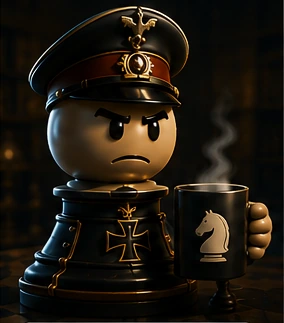
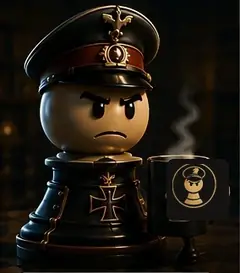
feat: enrich Matthias scenes and harden test workflow

diff --git a/frontend/src/matthiasTime.js b/frontend/src/matthiasTime.js
@@ -5,46 +5,42 @@ function normalizedHour(hour) {
   return wrapped < 0 ? wrapped + 24 : wrapped;
 }
 
-const SCENES = Object.freeze({
-  morning: Object.freeze({
-    key: 'morning-coffee',
-    label: 'Café de campaña',
-    greeting: 'Guten Morgen',
-    loginText: 'Guten Morgen. Café fuerte, mente clara. A ver si hoy no regalas nada.',
-  }),
-  lunch: Object.freeze({
-    key: 'lunch-bocata',
-    label: 'Bocata táctico',
-    greeting: 'Guten Tag',
-    loginText: 'Guten Tag. Me pillas con el bocata. Tú juega; ya masticaré entre blunders.',
-  }),
-  afternoon: Object.freeze({
-    key: 'afternoon-ops',
-    label: 'En plena operación',
-    greeting: 'Guten Tag',
-    loginText: 'Guten Tag. En plena operación. Mantén la presión y procura no financiar al rival.',
-  }),
-  night: Object.freeze({
-    key: 'night-coffee',
-    label: 'Turno nocturno',
-    greeting: 'Guten Abend',
-    loginText: 'Guten Abend. Turno nocturno. Menos excusas, más cálculo.',
-  }),
-  sleep: Object.freeze({
-    key: 'late-sleep',
-    label: 'Sobando',
-    greeting: 'Guten… was?',
-    loginText: '¿Qué haces jugando a estas horas? Has despertado al alto mando. Ya que estamos, mueve bien.',
-  }),
-});
+function scene(key, label, greeting, loginText) {
+  return Object.freeze({ key, label, greeting, loginText });
+}
+
+// Una jornada de Matthias se cuenta por pequeñas escenas, no por bloques de
+// tres horas con el mismo bocata. La hora local del navegador decide la escena
+// y no altera ninguna métrica ni regla del juego.
+const HOURLY_SCENES = Object.freeze([
+  scene('chess-weekly', 'Lectura de medianoche', 'Guten Abend', 'Guten Abend. Medianoche. Última lectura del día. Si vas a hacer una barbaridad, que al menos sea instructiva.'), // 00
+  scene('late-sleep', 'Sobando', 'Guten… was?', '¿Qué haces jugando a estas horas? Has despertado al alto mando. Ya que estamos, mueve bien.'),
+  scene('late-sleep', 'Sobando', 'Guten… was?', 'Las dos de la mañana. Yo estaba durmiendo y tú aparentemente estabas buscando problemas.'),
+  scene('late-sleep', 'Sobando', 'Guten… was?', 'Las tres. No pienso preguntar por qué. Sólo intenta que la partida justifique el crimen horario.'),
+  scene('late-sleep', 'Sobando', 'Guten… was?', 'Las cuatro. Esto ya no es turno nocturno; es una investigación.'),
+  scene('late-sleep', 'Sobando', 'Guten… was?', 'Cinco de la mañana. Técnicamente sigo sobando. Moralmente ya te estoy juzgando.'),
+  scene('morning-coffee', 'Primer café', 'Guten Morgen', 'Guten Morgen. Café fuerte, mente clara. A ver si hoy no regalas nada.'),
+  scene('breakfast-news', 'Desayuno y prensa', 'Guten Morgen', 'Guten Morgen. Croissant, café y Chess Weekly. Procura no convertirte en la noticia táctica del día.'),
+  scene('strategy-book', 'Estudio matinal', 'Guten Morgen', 'Guten Morgen. Desayuno terminado. Estoy repasando estrategia; tú puedes empezar por mirar antes de mover.'),
+  scene('chess-inception', 'Ajedrez dentro del ajedrez', 'Guten Morgen', 'Guten Morgen. Sí, estoy jugando al ajedrez mientras espero que juegues al ajedrez. No lo compliques.'),
+  scene('dossier', 'Revisión de expedientes', 'Guten Morgen', 'Guten Morgen. Estoy con los expedientes. El tuyo tiene demasiados post-it.'),
+  scene('chess-weekly', 'Chess Weekly', 'Guten Morgen', 'Guten Morgen. Prensa ajedrecística. Estrategia, estructura y gente que mira antes de mover.'),
+  scene('lunch-bocata', 'Comida táctica', 'Guten Tag', 'Guten Tag. Hora de comer. Un bocata y seguimos; una hora, no una legislatura.'),
+  scene('dossier', 'Sobremesa administrativa', 'Guten Tag', 'Guten Tag. Comida terminada. Vuelvo al expediente, que tus blunders no se archivan solos.'),
+  scene('strategy-book', 'Manual de campaña', 'Guten Tag', 'Guten Tag. Estoy estudiando. Es una costumbre útil; algún día podrías probarla.'),
+  scene('chess-inception', 'Partida privada', 'Guten Tag', 'Guten Tag. Estoy en mitad de otra partida. Sí, también me juzgo a mí mismo.'),
+  scene('afternoon-ops', 'En plena operación', 'Guten Tag', 'Guten Tag. En plena operación. Mantén la presión y procura no financiar al rival.'),
+  scene('dossier', 'Auditoría táctica', 'Guten Tag', 'Guten Tag. Hora de revisar expedientes. Tus blunders no se archivan solos.'),
+  scene('chess-weekly', 'Lectura de tarde', 'Guten Tag', 'Guten Tag. Chess Weekly. Nada de picar entre horas: café, lectura y disciplina.'),
+  scene('beer-break', 'Cervezota reglamentaria', 'Guten Abend', 'Guten Abend. He declarado una pausa con cerveza. No interpretes eso como permiso para jugar borracho.'),
+  scene('lunch-bocata', 'Cena de campaña', 'Guten Abend', 'Guten Abend. Cena rápida y vuelta al tablero. Hasta yo respeto unos horarios razonables.'),
+  scene('night-coffee', 'Turno nocturno', 'Guten Abend', 'Guten Abend. Cena terminada. Café, guardia nocturna y menos excusas.'),
+  scene('chess-inception', 'Partida nocturna', 'Guten Abend', 'Guten Abend. Estoy jugando una partida. Inception ajedrecístico, pero con menos presupuesto.'),
+  scene('strategy-book', 'Último estudio', 'Guten Abend', 'Guten Abend. Últimas páginas del día. Después de esto, a dormir como una persona razonable.'),
+]);
 
 export function matthiasTimeScene(hour = new Date().getHours()) {
-  const h = normalizedHour(hour);
-  if (h >= 1 && h < 6) return SCENES.sleep;
-  if (h >= 6 && h < 11) return SCENES.morning;
-  if (h >= 11 && h < 15) return SCENES.lunch;
-  if (h >= 15 && h < 20) return SCENES.afternoon;
-  return SCENES.night;
+  return HOURLY_SCENES[normalizedHour(hour)] || HOURLY_SCENES[12];
 }
 
 export { normalizedHour as normalizeMatthiasHour };

diff --git a/frontend/src/matthiasTime.test.js b/frontend/src/matthiasTime.test.js
@@ -1,26 +1,35 @@
 import { describe, expect, it } from 'vitest';
-import { matthiasTimeScene } from './matthiasTime.js';
+import { matthiasTimeScene, normalizeMatthiasHour } from './matthiasTime.js';
 
-describe('Matthias · escenas por hora local', () => {
-  it.each([
-    [0, 'night-coffee'],
-    [1, 'late-sleep'],
-    [5, 'late-sleep'],
-    [6, 'morning-coffee'],
-    [10, 'morning-coffee'],
-    [11, 'lunch-bocata'],
-    [14, 'lunch-bocata'],
-    [15, 'afternoon-ops'],
-    [19, 'afternoon-ops'],
-    [20, 'night-coffee'],
-    [23, 'night-coffee'],
-  ])('a las %i usa %s', (hour, key) => {
-    expect(matthiasTimeScene(hour).key).toBe(key);
+describe('Matthias · jornada horaria', () => {
+  it('rota actividades hora a hora y reserva comida para desayuno, comida y cena', () => {
+    const keys = Array.from({ length: 24 }, (_, hour) => matthiasTimeScene(hour).key);
+    expect(keys.slice(1, 6)).toEqual(Array(5).fill('late-sleep'));
+    expect(keys.filter((key) => key === 'lunch-bocata')).toHaveLength(2);
+    expect(keys[7]).toBe('breakfast-news');
+    expect(keys[12]).toBe('lunch-bocata');
+    expect(keys[20]).toBe('lunch-bocata');
+    expect(new Set(keys).size).toBeGreaterThanOrEqual(10);
+    expect(keys[9]).toBe('chess-inception');
+    expect(keys[19]).toBe('beer-break');
+    expect(keys[23]).toBe('strategy-book');
+
+    const solidFoodHours = keys
+      .map((key, hour) => ({ key, hour }))
+      .filter(({ key }) => ['breakfast-news', 'lunch-bocata'].includes(key))
+      .map(({ hour }) => hour);
+    expect(solidFoodHours).toEqual([7, 12, 20]);
+
+    const workingHours = keys.slice(8, 19);
+    expect(workingHours).toContain('dossier');
+    expect(workingHours).toContain('strategy-book');
+    expect(workingHours).toContain('chess-inception');
+    expect(workingHours).toContain('afternoon-ops');
   });
 
-  it('normaliza horas fuera de rango sin inventar otra identidad', () => {
-    expect(matthiasTimeScene(24).key).toBe('night-coffee');
-    expect(matthiasTimeScene(-1).key).toBe('night-coffee');
+  it('normaliza horas fuera de rango sin romper la escena', () => {
+    expect(normalizeMatthiasHour(24)).toBe(0);
+    expect(normalizeMatthiasHour(-1)).toBe(23);
     expect(matthiasTimeScene('basura').key).toBe('lunch-bocata');
   });
 });

diff --git a/frontend/src/matthiasVisuals.js b/frontend/src/matthiasVisuals.js
@@ -4,6 +4,12 @@ import lunchBocata from './assets/matthias-scenes/lunch-bocata.webp';
 import afternoonOps from './assets/matthias-scenes/afternoon-ops.webp';
 import nightCoffee from './assets/matthias-scenes/night-coffee.webp';
 import lateSleep from './assets/matthias-scenes/late-sleep.webp';
+import breakfastNews from './assets/matthias-scenes/breakfast-news.webp';
+import chessInception from './assets/matthias-scenes/chess-inception.webp';
+import dossier from './assets/matthias-scenes/dossier.webp';
+import beerBreak from './assets/matthias-scenes/beer-break.webp';
+import strategyBook from './assets/matthias-scenes/strategy-book.webp';
+import chessWeekly from './assets/matthias-scenes/chess-weekly.webp';
 import moodAnnoyed from './assets/matthias-scenes/mood-annoyed.webp';
 import moodImpressed from './assets/matthias-scenes/mood-impressed.webp';
 import moodSkeptical from './assets/matthias-scenes/mood-skeptical.webp';
@@ -15,13 +21,16 @@ const TIME_ASSETS = Object.freeze({
   'afternoon-ops': afternoonOps,
   'night-coffee': nightCoffee,
   'late-sleep': lateSleep,
+  'breakfast-news': breakfastNews,
+  'chess-inception': chessInception,
+  dossier,
+  'beer-break': beerBreak,
+  'strategy-book': strategyBook,
+  'chess-weekly': chessWeekly,
 });
 
 const MOOD_ASSETS = Object.freeze({
   observant: baseAvatar,
-  // Matthias concede que está satisfecho sin dejar de parecer que va a
-  // ponerte arrestado por colgar una pieza. Sólo 'impressed' rompe de verdad
-  // la cara de pocos amigos; así la excepción conserva valor.
   satisfied: baseAvatar,
   pleased: baseAvatar,
   skeptical: moodSkeptical,

diff --git a/frontend/src/components/MatthiasDailyConsult.jsx b/frontend/src/components/MatthiasDailyConsult.jsx
@@ -1,5 +1,6 @@
 import { useEffect, useMemo, useRef, useState } from 'react';
 import { matthiasMoodAvatar } from '../matthiasVisuals.js';
+import { CPU_IDENTITY } from '../cpuIdentity.js';
 import { askMatthiasDaily, createMatthiasConsultationId, fetchMatthiasDailyStatus } from '../matthiasDaily.js';
 import { buildMatthiasDossierEntries, formatMatthiasDossierDate } from '../matthiasDossier.js';
 
@@ -79,7 +80,7 @@ export default function MatthiasDailyConsult({ facts, isAdminUser = false }) {
     <section className="matthias-daily" aria-label="Consulta diaria con Matthias">
       <div className="matthias-daily-heading">
         <img src={matthiasAvatar} alt="" aria-hidden="true" />
-        <div><span className="section-label">Matthias // consulta del día</span><h3>Una audiencia diaria. Elige bien, bitte.</h3></div>
+        <div className="matthias-daily-title-copy"><span className="section-label matthias-daily-brandline"><img className="matthias-brand-mark" src={CPU_IDENTITY.brandMark} alt="" aria-hidden="true" />Matthias // consulta del día</span><h3>Una audiencia diaria. Elige bien, bitte.</h3></div>
       </div>
       {memory && (
         <details className="matthias-memory-card">

diff --git a/frontend/src/userReleaseNotes.js b/frontend/src/userReleaseNotes.js
@@ -6,6 +6,16 @@ export const USER_RELEASE_NOTES_KEY = 'chess-study-user-release-notes-seen';
 // Infraestructura, nombres internos, hashes y recuentos de tests se quedan fuera.
 export const USER_RELEASE_NOTES = Object.freeze([
   {
+    release: 'v16.6dm46zfrh',
+    title: 'Matthias deja de pasarse tres horas con el bocata',
+    highlights: [
+      'El rincón de Matthias rota ahora pequeñas escenas según la hora local: prensa, estudio, expedientes, partidas de ajedrez, café, una cervezota ocasional y, por fin, un almuerzo de duración humana.',
+      'Las nuevas escenas conservan el mismo peón militar y sirven sólo como ambientación: no cambian reglas, estadísticas ni recomendaciones.',
+      'La taza de café adopta la marca propia de Matthias: un peón cabreado reconocible, sin símbolos genéricos que puedan confundirse con otra cosa.',
+      'El entorno de pruebas alinea también la auditoría de dependencias Python con el mismo virtualenv que instala el backend, evitando fallos de CI por herramientas de seguridad ausentes en el Python global.',
+    ],
+  },
+  {
     release: 'v16.6dm46zfrg',
     title: 'La Escuela de Matthias ya es un curso de verdad',
     highlights: [

diff --git a/frontend/src/matthiasHome.test.js b/frontend/src/matthiasHome.test.js
@@ -101,10 +101,10 @@ describe('Matthias en Home', () => {
     const greeting = buildMatthiasLoginGreeting({ hour: 22 });
     expect(greeting).toMatchObject({ kind: 'login-greeting', action: 'insights', actionLabel: 'Ver Así juegas' });
     expect(greeting.text).toMatch(/^Guten Abend\./);
-    expect(greeting.timeScene).toBe('night-coffee');
+    expect(greeting.timeScene).toBe('chess-inception');
     expect(buildMatthiasLoginGreeting({ hour: 12 })).toMatchObject({ timeScene: 'lunch-bocata' });
     expect(buildMatthiasLoginGreeting({ hour: 3 })).toMatchObject({ timeScene: 'late-sleep' });
-    expect(buildMatthiasLoginGreeting({ hour: 3 }).text).toMatch(/despertado al alto mando/i);
+    expect(buildMatthiasLoginGreeting({ hour: 3 }).text).toMatch(/(crimen horario|despertado|las tres)/i);
     const model = buildMatthiasHomeCardModel({ visit: greeting });
     expect(model).toMatchObject({ variant: 'comment', eyebrow: 'MATTHIAS · WILLKOMMEN' });
     consumeMatthiasLoginGreeting();

diff --git a/frontend/src/styles/28-product-resilience.css b/frontend/src/styles/28-product-resilience.css
@@ -824,6 +824,8 @@
 .matthias-daily-heading { display: flex; align-items: center; gap: .7rem; }
 .matthias-daily-heading img { width: 54px; height: 54px; border-radius: 12px; object-fit: cover; object-position: 50% 36%; border: 1px solid color-mix(in srgb, var(--brass) 55%, transparent); }
 .matthias-daily-heading h3 { margin: .08rem 0 0; font-family: var(--font-display); font-size: 1rem; color: var(--parchment); }
+.matthias-daily-brandline { display: inline-flex; align-items: center; gap: .34rem; }
+.matthias-daily-heading .matthias-brand-mark { width: 20px; height: 20px; border: 0; border-radius: 4px; object-fit: contain; object-position: center; background: transparent; }
 .matthias-daily-options { display: flex; flex-wrap: wrap; gap: .45rem; }
 .matthias-daily-options .secondary-btn { min-height: 36px; }
 .matthias-daily > small, .matthias-daily-answer small { color: var(--parchment-dim); line-height: 1.4; }

diff --git a/frontend/src/matthiasVisuals.test.js b/frontend/src/matthiasVisuals.test.js
@@ -10,9 +10,9 @@ describe('Matthias visual identity', () => {
   });
 
   it('usa las escenas de café completas en mañana y turno nocturno', () => {
-    expect(matthiasTimeVisual(8).key).toBe('morning-coffee');
-    expect(matthiasTimeVisual(22).key).toBe('night-coffee');
-    expect(matthiasTimeVisual(8).avatar).not.toBe(MATTHIAS_BASE_AVATAR);
-    expect(matthiasTimeVisual(22).avatar).not.toBe(MATTHIAS_BASE_AVATAR);
+    expect(matthiasTimeVisual(6).key).toBe('morning-coffee');
+    expect(matthiasTimeVisual(21).key).toBe('night-coffee');
+    expect(matthiasTimeVisual(6).avatar).not.toBe(MATTHIAS_BASE_AVATAR);
+    expect(matthiasTimeVisual(21).avatar).not.toBe(MATTHIAS_BASE_AVATAR);
   });
 });

diff --git a/frontend/src/cpuIdentity.js b/frontend/src/cpuIdentity.js
@@ -1,7 +1,9 @@
 import { MATTHIAS_BASE_AVATAR } from './matthiasVisuals.js';
+import matthiasBrandMark from './assets/matthias-brand.png';
 
 export const CPU_IDENTITY = Object.freeze({
   name: 'Matthias',
   role: 'CPU',
   avatar: MATTHIAS_BASE_AVATAR,
+  brandMark: matthiasBrandMark,
 });

diff --git a/frontend/src/release.js b/frontend/src/release.js
@@ -1,1 +1,1 @@
-export const APP_RELEASE = 'v16.6dm46zfrg';
+export const APP_RELEASE = 'v16.6dm46zfrh';

diff --git a/scripts/test_entrypoint_parity.py b/scripts/test_entrypoint_parity.py
@@ -35,16 +35,23 @@ local_block = re.search(r'^test-all-local:(.*?)(?=\n[^\t# ].*?:|\Z)', makefile, 
 if not local_block:
     raise SystemExit('No se pudo inspeccionar test-all-local')
 local = local_block.group(0)
-for family in ['static-preflight', 'test-frontend', 'test-backend-smoke', 'test-backend-integration', 'backend-check', 'e2e-critical']:
+for family in ['static-preflight', 'test-frontend', 'test-backend-smoke', 'test-backend-integration', 'backend-check', 'e2e']:
     if family not in local:
         raise SystemExit(f'test-all-local no incluye la familia crítica: {family}')
 
-for command in ['make static-preflight', 'make test-frontend', 'make test-backend-smoke', 'make test-backend-integration', 'make backend-check', 'make e2e-critical']:
+
+tests_block = re.search(r'^tests:(.*?)(?=\n[^\t# ].*?:|\Z)', makefile, re.M | re.S)
+if not tests_block or 'e2e' not in tests_block.group(0):
+    raise SystemExit('make tests debe incluir la suite Playwright completa mediante el target e2e')
+
+for command in ['make static-preflight', 'make test-frontend', 'make test-backend-smoke', 'make test-backend-integration', 'make backend-check', 'make security-be', 'make e2e-critical']:
     if command not in ci:
         raise SystemExit(f'CI se ha desalineado del entrypoint local: falta `{command}`')
 
 if 'CRITICAL_E2E_GREP :=' not in makefile:
     raise SystemExit('El grep E2E crítico debe vivir en Makefile como contrato único')
+if 'python -m pip_audit' in ci:
+    raise SystemExit('CI volvió a ejecutar pip-audit fuera del venv; usa `make security-be`')
 if '--grep "login → menú' in ci:
     raise SystemExit('CI volvió a duplicar el grep E2E en YAML; usa `make e2e-critical`')
 

diff --git a/backend-python/release_info.py b/backend-python/release_info.py
@@ -10,7 +10,7 @@ from __future__ import annotations
 import os
 import re
 
-APP_RELEASE = "v16.6dm46zfrg"
+APP_RELEASE = "v16.6dm46zfrh"
 
 _COMMIT_ENV_KEYS = (
     "RENDER_GIT_COMMIT",
